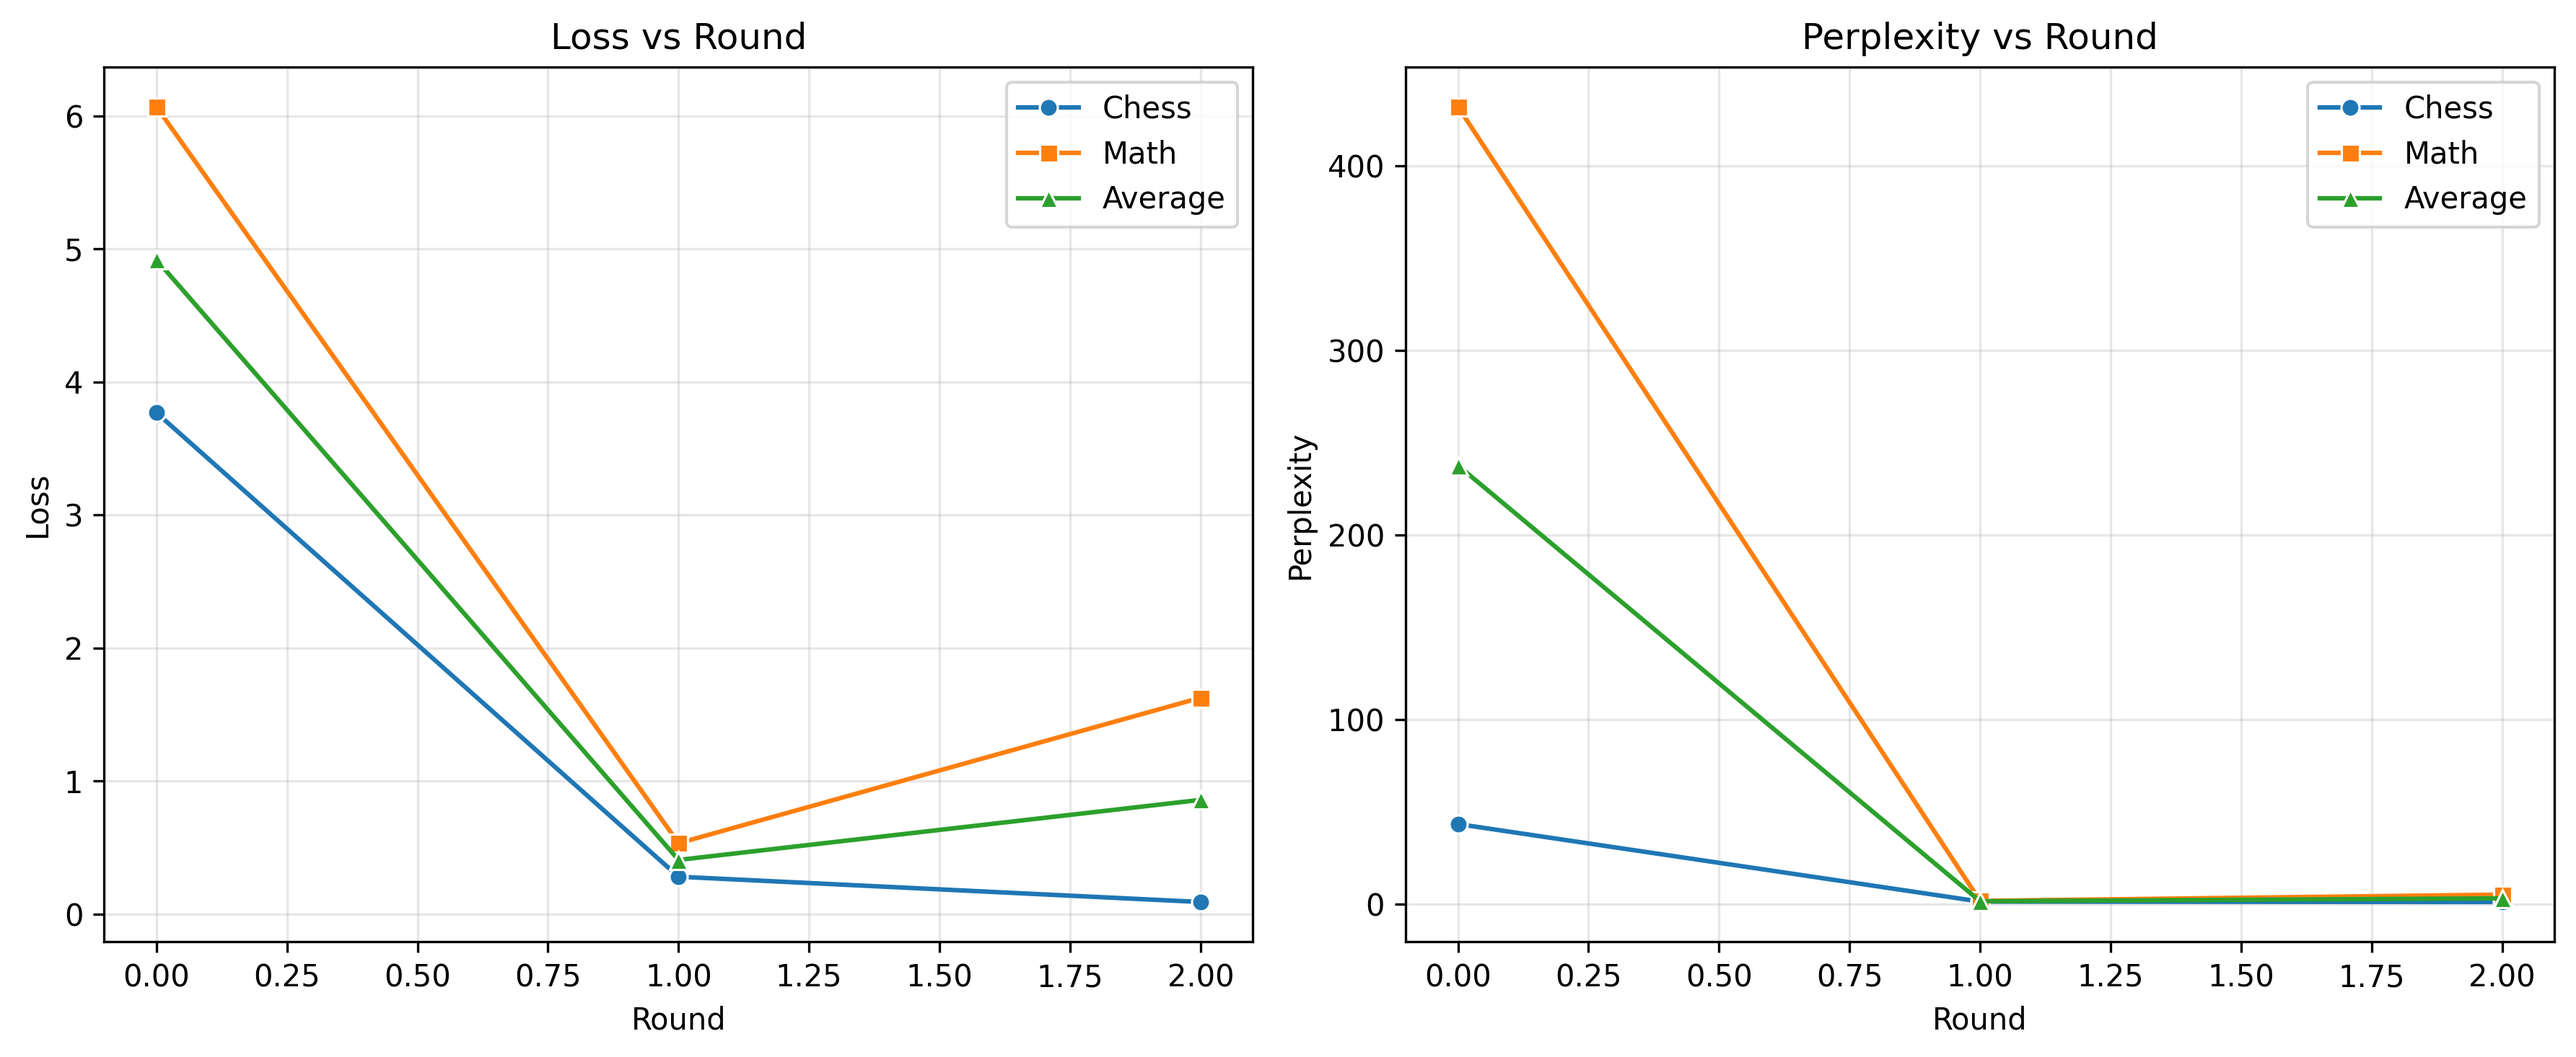
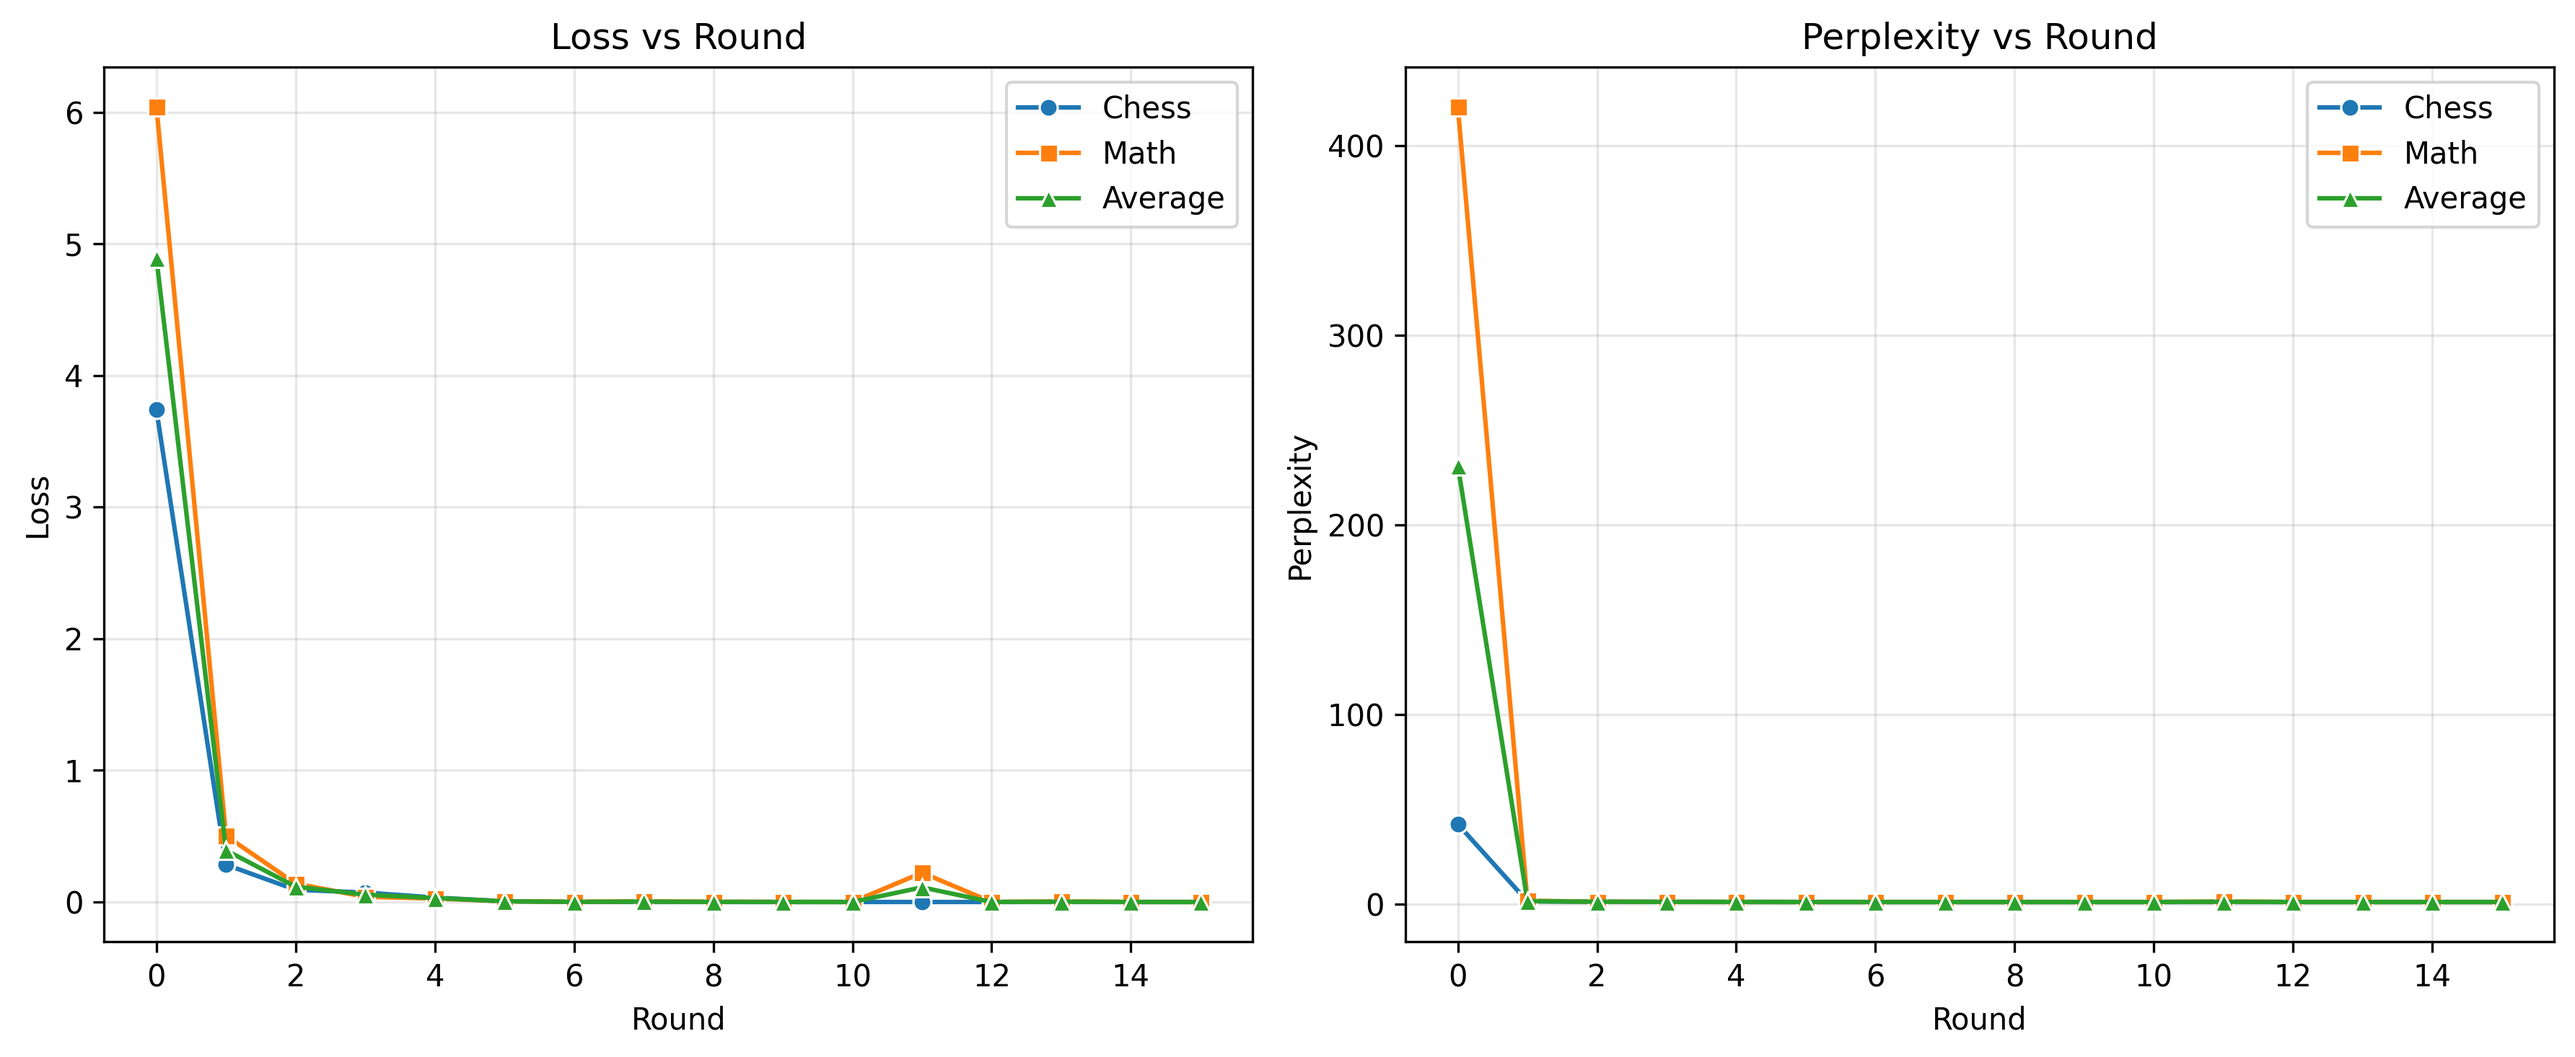
refactor: enhance FL metrics and training configuration; remove unused response generation function; add cache loading log

diff --git a/src/test_models.py b/src/test_models.py
@@ -10,41 +10,6 @@ from src.utils import CacheManager
 
 
 
-
-
-def generate_response(model, tokenizer, dataset, sample_idx=10):
-    conversation = dataset['conversations'][sample_idx]
-
-    messages = [
-        {'role': conversation[0]['role'],
-            'content': conversation[0]['content']},
-        {"role": conversation[1]['role'],
-            'content': conversation[1]['content']}
-    ]
-
-    text = tokenizer.apply_chat_template(
-        messages,
-        tokenize=False,
-        add_generation_prompt=True,
-    ).removeprefix('<bos>')
-
-    print(">> Generated Response (Prediction) ->", end=" ")
-
-    generated = model.generate(
-        **tokenizer(text, return_tensors="pt").to(model.device),
-        max_new_tokens=125,
-        temperature=1,
-        top_p=0.95,
-        top_k=64,
-        streamer=TextStreamer(tokenizer, skip_prompt=True),
-    )
-
-    print(
-        f"[[Actual Response (Ground Truth) ->  {conversation[2]['content']}]]")
-
-    return conversation[2]['content']
-
-
 def generate_response_with_provenance(model, tokenizer, dataset, sample_idx, client_models, terminators):
     print(
         f"\n\n{15*'-'} Input Index {sample_idx} Response Generation Provenance {15*'-'}")

diff --git a/src/fl_train.py b/src/fl_train.py
@@ -32,7 +32,7 @@ flwr_logger.propagate = False
 def get_config():
     return {
         "fl": {
-            "num_rounds": 2,
+            "num_rounds": 15,
             "num_clients": 2,
             "clients_per_round": 2
         },
@@ -42,7 +42,7 @@ def get_config():
             "per_device_train_batch_size": 32,
             "gradient_accumulation_steps": 1,
             "warmup_steps": 15,
-            "num_train_epochs": 6,
+            "num_train_epochs": 1,
             "learning_rate": 5e-5,
             "logging_steps": 20,
             "optim": "adamw_torch",

diff --git a/src/utils.py b/src/utils.py
@@ -57,6 +57,8 @@ class CacheManager:
             client_model = CacheManager._to_cuda_fp32(client_model)
             client_models[client_id] = client_model
         
+    
+        print(f"==== Loaded global and {len(client_models)} client models from cache. ====")        
         return global_model, global_tokenizer, client_models
     
     @staticmethod

diff --git a/test.py b/test.py
@@ -1,0 +1,5 @@
+import os, multiprocessing as mp, os as _os
+n = int(os.getenv("NUMPROC", "10"))
+_os.cpu_count = lambda: n
+mp.cpu_count = lambda: n
+

diff --git a/README.md b/README.md
@@ -12,7 +12,7 @@ uv self update
 interact -N1 --ntasks-per-node=1 --cpus-per-task=16 -A semcache -p dgx_normal_q -t 6:00:00 --gres=gpu:1  
 
 #a100_normal_q
-interact -N1 --ntasks-per-node=1 --cpus-per-task=32 -A semcache -p a100_normal_q -t 8:00:00 --gres=gpu:1
+interact -N1 --ntasks-per-node=1 --cpus-per-task=32 -A semcache -p a100_normal_q -t 8:00:00 --gres=gpu:2
 
 # for h200 
 interact -N1 --ntasks-per-node=1 --cpus-per-task=32 -A semcache -p h200_normal_q -t 4:00:00 --gres=gpu:2
@@ -22,7 +22,9 @@ interact -N1 --ntasks-per-node=1 --cpus-per-task=16 -A semcache -p h200_preempta
 
 # for falcon
 
-interact -N1 --gres=gpu:2 -p l40s_normal_q --ntasks-per-node=1 --cpus-per-task=32 -A semcache -t 6:00:00
+interact -N1 --gres=gpu:2 -p l40s_normal_q --qos fal_l40s_normal_short --ntasks-per-node=1 --gres-flags=enforce-binding --cpus-per-task=14 -A semcache -t 8:00:00
+
+interact -N1 --gres=gpu:2 -p l40s_preemptable_q --qos fal_l40s_preemptable_base --ntasks-per-node=1 --gres-flags=enforce-binding --cpus-per-task=14 -A semcache -t 8:00:00
 
 # for tinkercliff  h200_normal_q
 interact -N1 --gres=gpu:1 -p h200_normal_q --ntasks-per-node=1 --cpus-per-task=16 -A semcache -t 6:00:00
